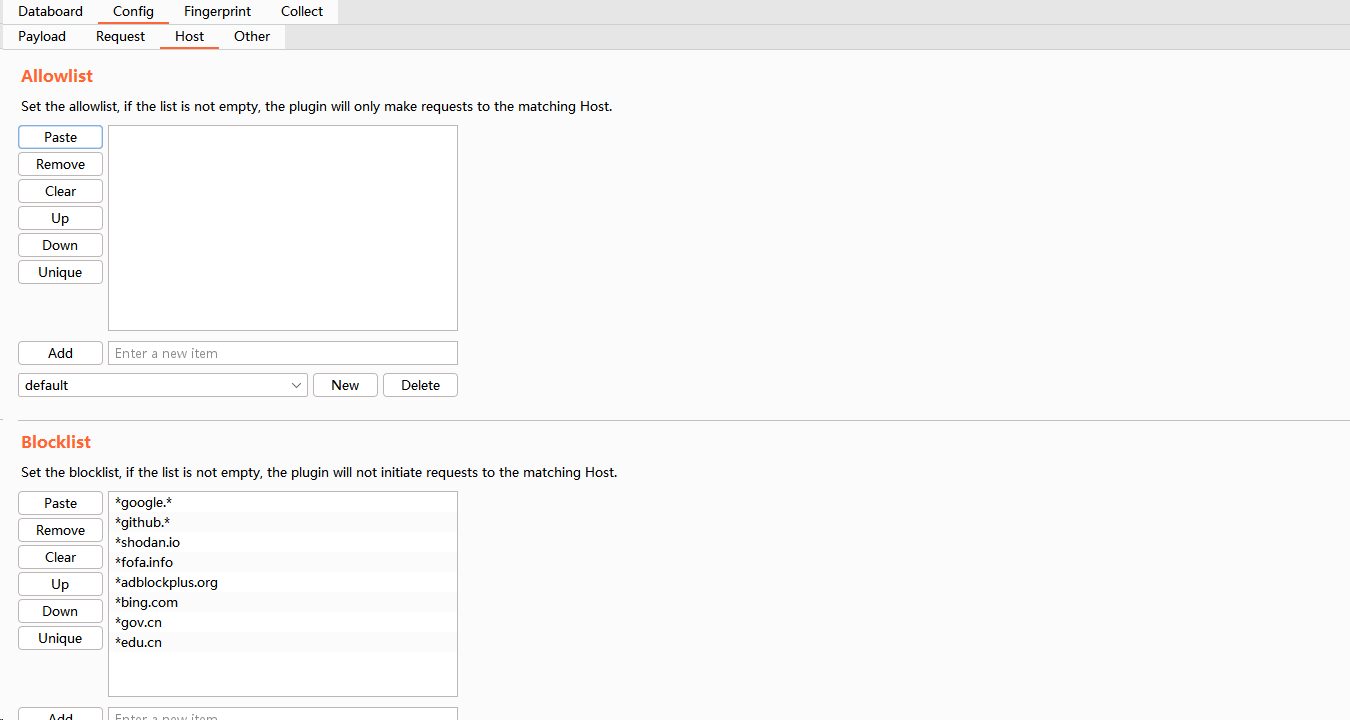
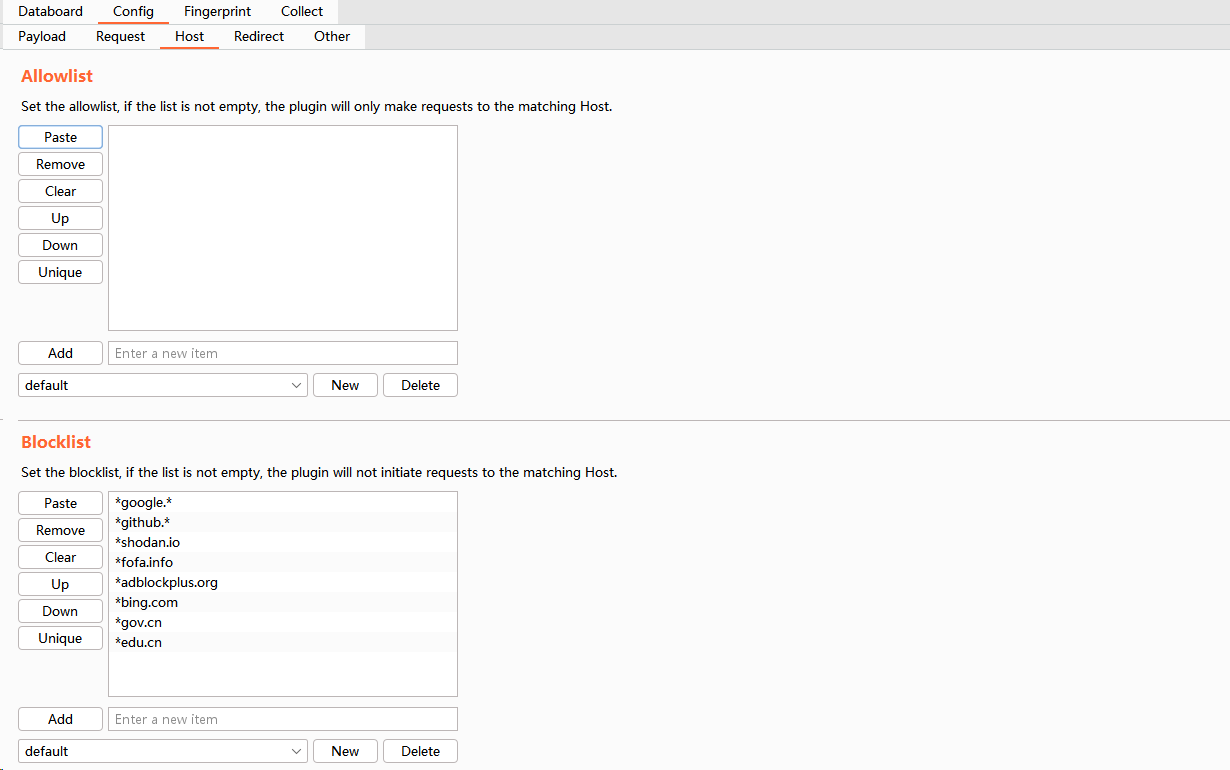
更新项目说明文档，更新插件截图

Changed region(s): [[0.0, 0.4278, 0.4943, 1.0], [0.0, 0.0, 0.4943, 0.3972]]

diff --git a/README.md b/README.md
@@ -135,15 +135,19 @@ C:\Users\<用户名>\.config\OneScan\
 
 ![](imgs/main_panel.png)
 
-- `Listen Proxy Message` 开关被动扫描（默认禁用），代理的请求包都会经过 OneScan 插件（建议配置白名单后启用）
+- `Listen Proxy` 开关被动扫描（默认禁用），代理的请求包都会经过 OneScan 插件（建议配置白名单后启用）
 - `Remove Header` 开关移除请求头（默认禁用），根据 `Request -> Remove header` 里的配置，移除请求头中对应的值
 - `Replace Header` 开关请求头替换（默认启用），使用 `Request -> Header` 中配置的请求头请求数据
-- `DirScan` 开关递归扫描（默认启用），对目标进行递归扫描
-- `Payload Processing` 开关请求包处理功能（默认启用）
+- `Dir Scan` 开关递归扫描（默认启用），对目标进行递归扫描
+- `Processing` 开关请求包处理功能（默认启用）
 - `Filter` 设置数据过滤规则
 - `Import url` 导入 URL 目标扫描
 - `Stop` 停止正在扫描的任务
+- `Clear` 清空历史记录（与右键菜单里的 `Clear history` 功能一致）
 - `Actions` 操作菜单（列表鼠标右键菜单的所有功能）
+- `Task status` 任务状态（任务完成总数 / 任务提交总数）
+- `Task history` 任务历史记录（任务列表的数据量）
+- `FP cache` 指纹缓存数据量
 
 #### 过滤规则配置
 
@@ -205,6 +209,16 @@ Host配置界面如下
 
 - `Allowlist` 配置白名单列表，如果该列表不为空，插件只对匹配的 Host 进行请求
 - `Blocklist` 配置黑名单列表，如果该列表不为空，插件不会向匹配的 Host 发起请求
+
+#### Redirect（重定向配置）
+
+Redirect配置界面如下（插件 `2.1.0` 版本新增）
+
+![](imgs/config_redirect.png)
+
+- `Follow redirect` 跟随重定向（启用后，将自动解析并访问 `30x` 响应包中的 `Location` 地址）
+- `Cookies follow` Cookie跟随（启用后，将重定向响应包中的 `Cookie` 值带入重定向目标的请求包）
+- `Target host limit` 目标主机限制（启用后，重定向目标主机地址会被黑、白名单列表拦截）
 
 #### Other（其它配置）
 
